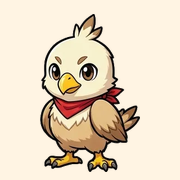
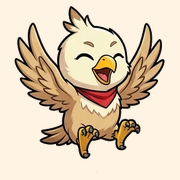
App 圖示改成啾啾大笑並放大填滿 (#63)
* App 圖示換成啾啾；問教練加入免 API 本地問答（主題、決策樹、先問要不要套用個人數據）

Claude-Session: https://claude.ai/code/session_01FAFTkeDHWujgoyoFADehhJ

* App 圖示改成啾啾大笑、放大填滿；加上 manifest 與 180/512 圖示

Claude-Session: https://claude.ai/code/session_01FAFTkeDHWujgoyoFADehhJ

---------

diff --git a/coach/index.html b/coach/index.html
@@ -7,8 +7,8 @@
 <meta name="apple-mobile-web-app-status-bar-style" content="default">
 <meta name="apple-mobile-web-app-title" content="紀律教練">
 <meta name="theme-color" content="#fff4e3">
-<link rel="apple-touch-icon" href="icon.png?v=2">
-<link rel="icon" href="icon.png?v=2">
+<link rel="apple-touch-icon" sizes="180x180" href="icon-180.png?v=3">
+<link rel="manifest" href="manifest.json?v=3">
 <title>紀律教練</title>
 <style>
   :root {
@@ -5379,7 +5379,7 @@
   window.S_setShortcutName = v => { S.settings.shortcutName = v.trim(); persist(); toast('捷徑名稱已儲存'); };
 
   // ---------- auto update: 主畫面 App 可能一直用舊版快取，打開時檢查網站上的版本 ----------
-  const APP_VERSION = '2026.11.25-1';
+  const APP_VERSION = '2026.11.25-2';
   async function checkUpdate() {
     try {
       const res = await fetch(location.pathname + '?nocache=' + Date.now(), { cache: 'no-store' });
